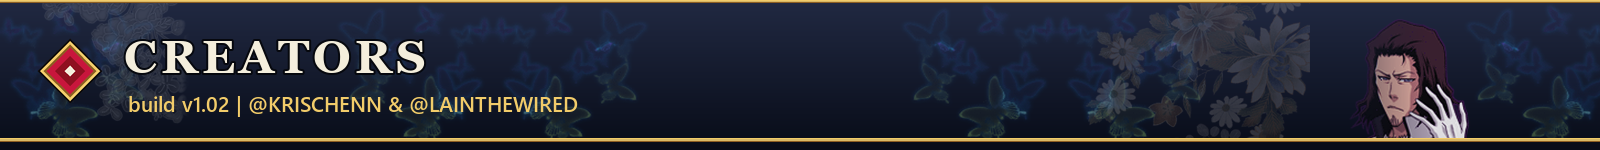
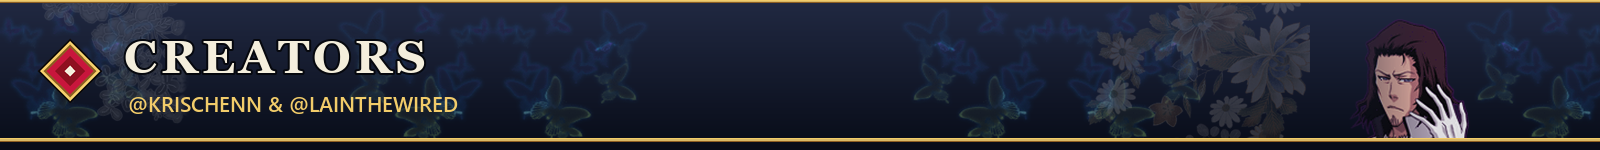
Title "BLEACH: Heat the Soul 7 PC Project", version-agnostic copy, .gitignore guardrails
- README, docs/index.html (title, OpenGraph, header, hero heading), LICENSE and the hero
  banner use the title "BLEACH: Heat the Soul 7 PC Project".
- No hardcoded version anywhere in the copy or the media: versions show only in the live
  release badge and in the portal's release box (read from the Releases API).
- The game-data wording matches the release package: no disc image or EBOOT is distributed;
  the package carries the Hell Verse additional data (.EDAT), which stays its owners'.
- .gitignore blocks source, build, project, symbol, internal-config and game-data files.

Changed region(s): [[0.0625, 0.64, 0.375, 0.7733]]

diff --git a/docs/index.html b/docs/index.html
@@ -3,10 +3,10 @@
 <head>
 <meta charset="utf-8">
 <meta name="viewport" content="width=device-width, initial-scale=1">
-<title>BLEACH HTS7 PC</title>
-<meta name="description" content="BLEACH: Heat the Soul 7 — a native Windows port of the PSP game, made by static recompilation. build v1.02 | @KRISCHENN & @LAINTHEWIRED">
-<meta property="og:title" content="BLEACH: Heat the Soul 7 — PC Recompilation v1.02">
-<meta property="og:description" content="60 FPS, rollback netcode, rebuilt online lobbies, Replay Theater with MP4 export, training suite. build v1.02 | @KRISCHENN & @LAINTHEWIRED">
+<title>BLEACH: Heat the Soul 7 PC Project</title>
+<meta name="description" content="BLEACH: Heat the Soul 7 PC Project — a native Windows port of the PSP game, made by static recompilation, by @KRISCHENN &amp; @LAINTHEWIRED.">
+<meta property="og:title" content="BLEACH: Heat the Soul 7 PC Project">
+<meta property="og:description" content="A native Windows port of the PSP game: 60 FPS, rollback netcode, rebuilt online lobbies, Replay Theater with MP4 export, training suite. By @KRISCHENN &amp; @LAINTHEWIRED.">
 <meta property="og:image" content="media/hero_banner.png">
 <link rel="icon" href="media/ui/butterfly_0.png">
 <style>
@@ -46,13 +46,15 @@ header.top {
   border-bottom: 3px solid var(--gold); box-shadow: 0 1px 0 var(--bronze);
 }
 header.top .wrap { display: flex; align-items: center; gap: 18px; min-height: 52px; flex-wrap: wrap; }
-header.top .brand { font: 700 17px/1 Georgia, "Times New Roman", serif; letter-spacing: 2px; color: var(--ivory); white-space: nowrap; }
+header.top .brand { font: 700 17px/1 Georgia, "Times New Roman", serif; letter-spacing: 2px; color: var(--ivory); }
 header.top nav { display: flex; gap: 16px; flex-wrap: wrap; margin-left: auto; font-size: 14px; }
 header.top nav a { color: var(--ivory); opacity: .85; }
 header.top nav a:hover { color: var(--gold-light); opacity: 1; text-decoration: none; }
 
 .hero { margin: 22px auto 0; position: relative; }
 .hero img { width: 100%; border: 1px solid var(--bronze); box-shadow: 0 12px 40px rgba(0,0,0,.6); }
+h1.title { margin: 22px 0 4px; text-align: center; font: 700 clamp(24px, 4vw, 40px)/1.2 Georgia, "Times New Roman", serif; letter-spacing: 1px; color: var(--ivory); text-shadow: 0 2px 0 #000; }
+.subtitle { margin: 0; text-align: center; color: var(--gold-light); }
 
 /* Buttons and the update pill's look: navy capsules with a gold hairline. */
 .pill, .btn {
@@ -147,8 +149,7 @@ footer .legal { color: var(--muted); font-size: 12.5px; max-width: 760px; }
 
 <header class="top">
   <div class="wrap">
-    <span class="brand">BLEACH HTS7 · PC</span>
-    <span class="pill">build <span class="v">v1.02</span></span>
+    <span class="brand">BLEACH: Heat the Soul 7 PC Project</span>
     <nav>
       <a href="#download">Download</a><a href="#features">Features</a><a href="#compare">PSP vs PC</a>
       <a href="#install">Install</a><a href="#community">Community</a><a href="#creators">Creators</a>
@@ -157,13 +158,15 @@ footer .legal { color: var(--muted); font-size: 12.5px; max-width: 760px; }
 </header>
 
 <main class="wrap">
-  <div class="hero"><img src="media/hero_banner.png" alt="BLEACH: Heat the Soul 7 — PC Recompilation v1.02" width="1600" height="600"></div>
+  <div class="hero"><img src="media/hero_banner.png" alt="BLEACH: Heat the Soul 7 PC Project" width="1600" height="600"></div>
+  <h1 class="title">BLEACH: Heat the Soul 7 PC Project</h1>
+  <p class="subtitle">A native Windows port of the PSP game, made by static recompilation — by @KRISCHENN &amp; @LAINTHEWIRED.</p>
 
   <div id="download" class="panel download">
     <div class="info">
-      <h2 id="rel-title">Latest release</h2>
+      <h2 id="rel-title">The latest build</h2>
       <p id="rel-meta" class="meta">Checking GitHub Releases…</p>
-      <p>Native Windows 10/11 x64 · Vulkan · no game data included: you need your own UCJS-10110 disc image and decrypted EBOOT.BIN.</p>
+      <p>Native Windows 10/11 x64 · Vulkan · bring your own UCJS-10110 disc image and decrypted EBOOT.BIN (neither is included). The package includes the game's Hell Verse additional data (.EDAT) for Shuren.</p>
     </div>
     <div class="actions">
       <a id="rel-download" class="btn primary" href="https://github.com/krprojecthts/Bleach-HTS7-Releases/releases/latest">⬇ Download</a>
@@ -192,7 +195,7 @@ footer .legal { color: var(--muted); font-size: 12.5px; max-width: 760px; }
       <img class="psp" src="media/slider_psp.png" alt="PSP: 480×272 native" width="1600" height="907">
       <img class="over" src="media/slider_pc.png" alt="PC recompilation: 4× internal resolution" width="1600" height="907">
       <div class="handle"></div>
-      <span class="tag l">PSP · 480×272</span><span class="tag r">PC · v1.02</span>
+      <span class="tag l">PSP · 480×272</span><span class="tag r">PC Project</span>
       <input type="range" min="0" max="100" value="50" step="0.1" aria-label="Move the comparison handle">
     </div>
     <div class="gallery">
@@ -241,9 +244,9 @@ footer .legal { color: var(--muted); font-size: 12.5px; max-width: 760px; }
 <footer>
   <div class="rule"></div>
   <div class="wrap">
-    <span class="credit">build v1.02 | @KRISCHENN &amp; @LAINTHEWIRED</span>
+    <span class="credit">BLEACH: Heat the Soul 7 PC Project · @KRISCHENN &amp; @LAINTHEWIRED</span>
     <span class="legal">© 2026 @KRISCHENN &amp; @LAINTHEWIRED. All Rights Reserved. See the <a href="https://github.com/krprojecthts/Bleach-HTS7-Releases/blob/main/LICENSE">LICENSE</a>.
-      BLEACH © Tite Kubo / Shueisha. BLEACH: Heat the Soul 7 © Sony Interactive Entertainment / Eighting. This is an unofficial fan project, not affiliated with or endorsed by them, and no game data is distributed.</span>
+      BLEACH © Tite Kubo / Shueisha. BLEACH: Heat the Soul 7 © Sony Interactive Entertainment / Eighting. This is an unofficial fan project, not affiliated with or endorsed by them. No disc image or EBOOT is distributed; the release package's Hell Verse additional data (.EDAT) remains its owners' property.</span>
   </div>
 </footer>
 

diff --git a/README.md b/README.md
@@ -1,5 +1,5 @@
 <p align="center">
-  <img src="docs/media/hero_banner.png" alt="BLEACH: Heat the Soul 7 — PC Recompilation v1.02" width="100%">
+  <img src="docs/media/hero_banner.png" alt="BLEACH: Heat the Soul 7 PC Project" width="100%">
 </p>
 
 <p align="center">
@@ -14,8 +14,10 @@
   <a href="https://x.com/recompsociety?s=11"><img alt="X" src="https://img.shields.io/badge/X-%40RECOMPSOCIETY-000000?style=for-the-badge&logo=x&logoColor=white&labelColor=141c34"></a>
 </p>
 
+<h1 align="center">BLEACH: Heat the Soul 7 PC Project</h1>
+
 <p align="center"><b>A native Windows port of <i>BLEACH: Heat the Soul 7</i> (PSP), made by static recompilation.</b><br>
-<code>build v1.02 | @KRISCHENN &amp; @LAINTHEWIRED</code></p>
+by <b>@KRISCHENN</b> &amp; <b>@LAINTHEWIRED</b></p>
 
 <p align="center">
   <a href="https://github.com/krprojecthts/Bleach-HTS7-Releases/releases/latest"><b>⬇ Download the latest release</b></a> ·
@@ -25,7 +27,7 @@
 </p>
 
 > [!IMPORTANT]
-> This repository holds **releases, documentation and issues only**. No game data is distributed. To play, you need your own copy of the Japanese disc **UCJS-10110**: its disc image (`.iso`) and the decrypted `EBOOT.BIN`.
+> This repository holds **releases, documentation and issues only**. No source code is published here, and no disc image or `EBOOT.BIN` is distributed. To play, you need your own copy of the Japanese disc **UCJS-10110**: its disc image (`.iso`) and the decrypted `EBOOT.BIN`. Release packages include the game's Hell Verse additional data files (`.EDAT`, for Shuren), which remain the property of their owners.
 
 <br>
 
@@ -64,7 +66,7 @@ The same scripted battle rendered twice by the port, frame for frame: on the lef
 
 1. **Download** the `.zip` from the [latest release](https://github.com/krprojecthts/Bleach-HTS7-Releases/releases/latest) (no GitHub account needed) and extract it to its own folder, for example `C:\Games\BLEACH HTS7 PC\`. Do not run it from inside the zip.
 2. **Add your game files.** Put your **decrypted `EBOOT.BIN`** of UCJS-10110 in the `game\` folder. `game\README.txt` explains how to get it with PPSSPP (*Settings ▸ Tools ▸ Developer tools ▸ Dump decrypted EBOOT.BIN on game boot*). Keep your **disc image (`.iso`)** anywhere.
-3. **Play.** Double-click `BleachNative.exe`. On the first start the **DISC SETUP** screen asks for your `.iso` and checks both files: *READY (UCJS-10110 v1.01)* is best, and the v1.00 disc works too. Press START to launch.
+3. **Play.** Double-click `BleachNative.exe`. On the first start the **DISC SETUP** screen asks for your `.iso` and checks both files: a disc image with the game's 1.01 update is best, and the original disc works too. Press START to launch.
 
 `QUICKSTART.txt` in the release covers controls, settings, online play, replays, training tools and troubleshooting. Updating is automatic (see above), or extract a newer release over the old folder. Your saves stay in `memstick\`.
 
